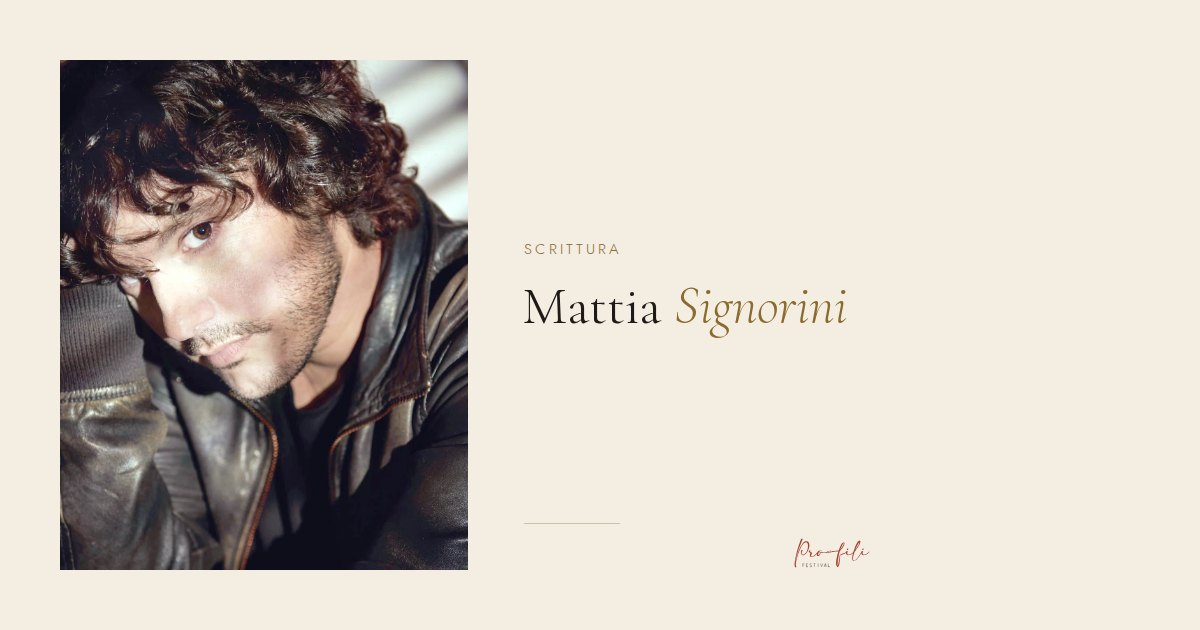
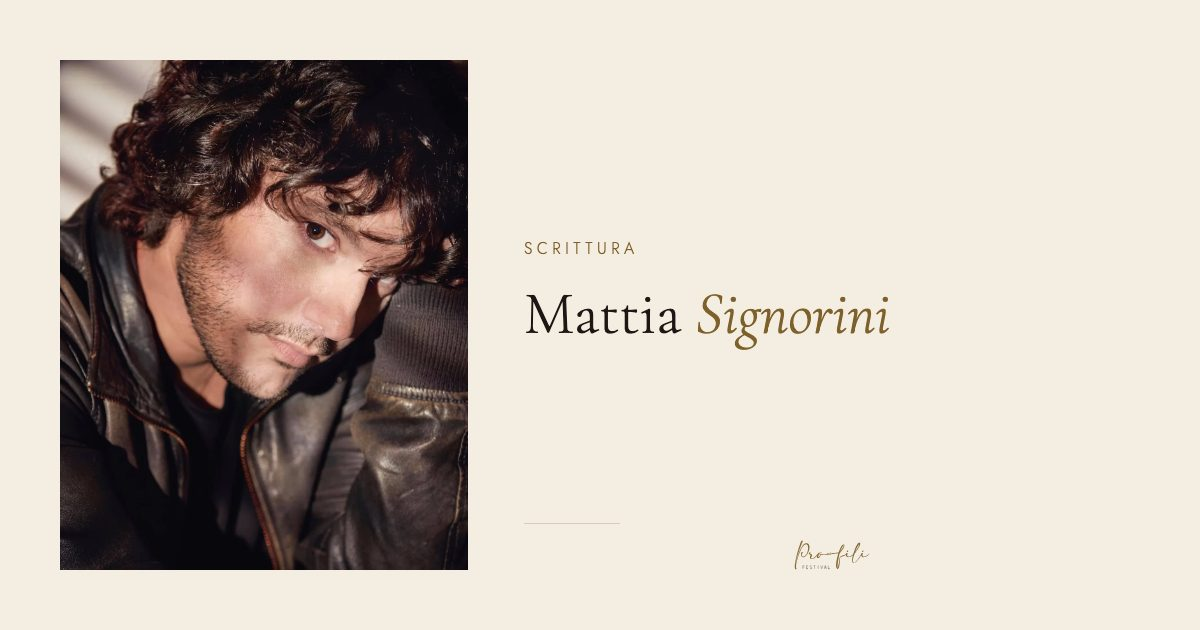
Foto: si uniformano solo i ritratti di profilo; frontali e tre quarti tornano come prima in attesa delle foto giuste (#39)
Claude-Session: https://claude.ai/code/session_01K8S9kDcMmADtdHMs7poTsz

diff --git a/index.html b/index.html
@@ -140,7 +140,7 @@
         <p>Romanziere, tradotto in mezzo mondo.</p>
       </figure></a>
       <a class="person rv" data-tinta="viola" href="artisti/giorgia-roversi.html"><figure>
-        <div class="ph" data-knot="low"><img src="assets/img/giorgia-roversi.webp" srcset="assets/img/giorgia-roversi_sm.webp 800w, assets/img/giorgia-roversi.webp 1280w" sizes="(max-width:640px) 46vw, (max-width:1000px) 30vw, 220px" alt="Ritratto di Giorgia Roversi" width="1280" height="1600" loading="lazy"></div>
+        <div class="ph" data-knot="low"><img src="assets/img/giorgia-roversi.webp" srcset="assets/img/giorgia-roversi_sm.webp 800w, assets/img/giorgia-roversi.webp 906w" sizes="(max-width:640px) 46vw, (max-width:1000px) 30vw, 220px" alt="Ritratto di Giorgia Roversi" width="906" height="1133" loading="lazy"></div>
         <h3>Giorgia Roversi</h3><p class="role">Pittura</p>
         <p>Pittura dell'anatomia invisibile delle emozioni.</p>
       </figure></a>
@@ -232,12 +232,12 @@
     <div class="thread" data-giri><svg aria-hidden="true"><path class="ghost" d=""/><path class="line" d=""/><path class="flow" d=""/><circle class="bead" r="4"/></svg>
     <div class="people people-compact">
       <a class="person rv" data-tinta="rosso" href="artisti/nicola-elias-rigato.html"><figure>
-        <div class="ph" data-knot="low"><img src="assets/img/nicola-profili.webp" srcset="assets/img/nicola-profili_sm.webp 800w, assets/img/nicola-profili.webp 1280w" sizes="(max-width:640px) 46vw, (max-width:1000px) 30vw, 220px" alt="Ritratto di Nicola Elias Rigato" width="1280" height="1600" loading="lazy"></div>
+        <div class="ph" data-knot="low"><img src="assets/img/nicola.webp" srcset="assets/img/nicola_sm.webp 800w, assets/img/nicola.webp 1600w" sizes="(max-width:640px) 46vw, (max-width:1000px) 30vw, 220px" alt="Nicola Elias Rigato al pianoforte" width="1600" height="1066" loading="lazy"></div>
         <h3>Nicola Elias Rigato</h3><p class="role">Pianoforte, composizione, scrittura, ricerca</p>
         <p>Pianista e compositore, con una ricerca che non si ferma al palco.</p>
       </figure></a>
       <a class="person rv" data-tinta="arancio" href="artisti/chiara-tosti.html"><figure>
-        <div class="ph" data-knot="low"><img src="assets/img/chiara-profili.webp" srcset="assets/img/chiara-profili_sm.webp 800w, assets/img/chiara-profili.webp 1280w" sizes="(max-width:640px) 46vw, (max-width:1000px) 30vw, 220px" alt="Ritratto di Chiara Tosti" width="1280" height="1600" loading="lazy"></div>
+        <div class="ph" data-knot="low"><img src="assets/img/chiara.webp" srcset="assets/img/chiara_sm.webp 600w, assets/img/chiara.webp 1050w" sizes="(max-width:640px) 46vw, (max-width:1000px) 30vw, 220px" alt="Ritratto di Chiara Tosti" width="1050" height="1400" loading="lazy"></div>
         <h3>Chiara Tosti</h3><p class="role">Danza</p>
         <p>Il corpo come racconto, tra tecnica e improvvisazione.</p>
       </figure></a>

diff --git a/artisti/chiara-tosti.html b/artisti/chiara-tosti.html
@@ -69,7 +69,7 @@
 <section class="block paper" data-world="paper">
   <div class="wrap article">
     <aside class="rv">
-      <div class="ph artist-ph"><img src="../assets/img/chiara-profili.webp" srcset="../assets/img/chiara-profili_sm.webp 800w, ../assets/img/chiara-profili.webp 1280w" sizes="(max-width:960px) 90vw, 300px" alt="Ritratto di Chiara Tosti" width="1280" height="1600"></div>
+      <div class="ph artist-ph"><img src="../assets/img/chiara.webp" srcset="../assets/img/chiara_sm.webp 600w, ../assets/img/chiara.webp 1050w" sizes="(max-width:960px) 90vw, 300px" alt="Ritratto di Chiara Tosti" width="1050" height="1400"></div>
       <p class="muted" style="margin:-16px 0 24px;font-size:12px">Foto di James Mountford, Firenze, 2026</p>
       <dl>
         <dt>Disciplina</dt><dd>Coreutica (l'arte della danza) e teatro</dd>
@@ -136,7 +136,7 @@
         <p>Romanziere, tradotto in mezzo mondo.</p>
       </figure></a>
       <a class="person rv" href="giorgia-roversi.html"><figure>
-        <div class="ph"><img src="../assets/img/giorgia-roversi.webp" srcset="../assets/img/giorgia-roversi_sm.webp 800w, ../assets/img/giorgia-roversi.webp 1280w" sizes="(max-width:999px) 46vw, 280px" alt="Ritratto di Giorgia Roversi" width="1280" height="1600" loading="lazy"></div>
+        <div class="ph"><img src="../assets/img/giorgia-roversi.webp" srcset="../assets/img/giorgia-roversi_sm.webp 800w, ../assets/img/giorgia-roversi.webp 906w" sizes="(max-width:999px) 46vw, 280px" alt="Ritratto di Giorgia Roversi" width="906" height="1133" loading="lazy"></div>
         <h3>Giorgia Roversi</h3><p class="role">Pittura</p>
         <p>Pittura dell'anatomia invisibile delle emozioni.</p>
       </figure></a>

diff --git a/assets/js/site.js b/assets/js/site.js
@@ -855,7 +855,7 @@
      sicurezza: senza JavaScript si vedono quelli. */
   var ALTRI = [
     {s:"mattia-signorini",n:"Mattia Signorini",r:"Scrittura",t:"Romanziere, tradotto in mezzo mondo.",i:"mattia-signorini.webp",ss:"mattia-signorini_sm.webp 800w, mattia-signorini.webp 1280w",a:"Ritratto di Mattia Signorini",w:1280,h:1600},
-    {s:"giorgia-roversi",n:"Giorgia Roversi",r:"Pittura",t:"Pittura dell'anatomia invisibile delle emozioni.",i:"giorgia-roversi.webp",ss:"giorgia-roversi_sm.webp 800w, giorgia-roversi.webp 1280w",a:"Ritratto di Giorgia Roversi",w:1280,h:1600},
+    {s:"giorgia-roversi",n:"Giorgia Roversi",r:"Pittura",t:"Pittura dell'anatomia invisibile delle emozioni.",i:"giorgia-roversi.webp",ss:"giorgia-roversi_sm.webp 800w, giorgia-roversi.webp 906w",a:"Ritratto di Giorgia Roversi",w:906,h:1133},
     {s:"zentequerente",n:"Zentequerente",r:"Arti visive",t:"Disegno e segni raccolti: l'invisibile dentro il visibile.",i:"zentequerente.webp",ss:"zentequerente_sm.webp 800w, zentequerente.webp 1280w",a:"Ritratto di Zentequerente, di profilo",w:1280,h:1600},
     {s:"marcello-ubertone",n:"Marcello Ubertone",r:"Cantautorato",t:"Canzoni che raccontano storie, tra immaginazione e vita vera.",i:"marcello-ubertone.webp",ss:"marcello-ubertone_sm.webp 800w, marcello-ubertone.webp 1280w",a:"Ritratto di Ubertone, di profilo",w:1280,h:1600},
     {s:"anna-spazio-marangon",n:"Anna Spazio Marangon",r:"Arti visive · installazione",t:"Installazioni di fili e nodi, tra spazio e materia.",i:"anna-spazio-marangon.webp",ss:"anna-spazio-marangon_sm.webp 800w, anna-spazio-marangon.webp 1280w",a:"Ritratto di Anna Spazio Marangon, di profilo",w:1280,h:1600},

diff --git a/artisti/marcello-ubertone.html b/artisti/marcello-ubertone.html
@@ -111,7 +111,7 @@
     <div class="head rv"><div><p class="eyebrow">PRO-FILI Festival</p><h2>Gli altri <em>artisti</em></h2></div></div>
     <div class="people" data-altri-artisti>
       <a class="person rv" href="giorgia-roversi.html"><figure>
-        <div class="ph"><img src="../assets/img/giorgia-roversi.webp" srcset="../assets/img/giorgia-roversi_sm.webp 800w, ../assets/img/giorgia-roversi.webp 1280w" sizes="(max-width:999px) 46vw, 280px" alt="Ritratto di Giorgia Roversi" width="1280" height="1600" loading="lazy"></div>
+        <div class="ph"><img src="../assets/img/giorgia-roversi.webp" srcset="../assets/img/giorgia-roversi_sm.webp 800w, ../assets/img/giorgia-roversi.webp 906w" sizes="(max-width:999px) 46vw, 280px" alt="Ritratto di Giorgia Roversi" width="906" height="1133" loading="lazy"></div>
         <h3>Giorgia Roversi</h3><p class="role">Pittura</p>
         <p>Pittura dell'anatomia invisibile delle emozioni.</p>
       </figure></a>

diff --git a/artisti/nicola-elias-rigato.html b/artisti/nicola-elias-rigato.html
@@ -69,7 +69,7 @@
 <section class="block paper" data-world="paper">
   <div class="wrap article">
     <aside class="rv">
-      <div class="ph artist-ph"><img src="../assets/img/nicola-profili.webp" srcset="../assets/img/nicola-profili_sm.webp 800w, ../assets/img/nicola-profili.webp 1280w" sizes="(max-width:960px) 90vw, 300px" alt="Ritratto di Nicola Elias Rigato" width="1280" height="1600" style="object-position:70% 50%"></div>
+      <div class="ph artist-ph"><img src="../assets/img/nicola.webp" srcset="../assets/img/nicola_sm.webp 800w, ../assets/img/nicola.webp 1600w" sizes="(max-width:960px) 90vw, 300px" alt="Nicola Elias Rigato al pianoforte" width="1600" height="1066" style="object-position:70% 50%"></div>
       <p class="muted" style="margin:-16px 0 24px;font-size:12px">Foto di Angelo De Poli</p>
       <dl>
         <dt>Disciplina</dt><dd>Pianoforte, composizione, scrittura, ricerca</dd>

diff --git a/artisti/anna-randolo.html b/artisti/anna-randolo.html
@@ -116,7 +116,7 @@
         <p>Romanziere, tradotto in mezzo mondo.</p>
       </figure></a>
       <a class="person rv" href="giorgia-roversi.html"><figure>
-        <div class="ph"><img src="../assets/img/giorgia-roversi.webp" srcset="../assets/img/giorgia-roversi_sm.webp 800w, ../assets/img/giorgia-roversi.webp 1280w" sizes="(max-width:999px) 46vw, 280px" alt="Ritratto di Giorgia Roversi" width="1280" height="1600" loading="lazy"></div>
+        <div class="ph"><img src="../assets/img/giorgia-roversi.webp" srcset="../assets/img/giorgia-roversi_sm.webp 800w, ../assets/img/giorgia-roversi.webp 906w" sizes="(max-width:999px) 46vw, 280px" alt="Ritratto di Giorgia Roversi" width="906" height="1133" loading="lazy"></div>
         <h3>Giorgia Roversi</h3><p class="role">Pittura</p>
         <p>Pittura dell'anatomia invisibile delle emozioni.</p>
       </figure></a>

diff --git a/artisti/elia-pellegrini.html b/artisti/elia-pellegrini.html
@@ -120,7 +120,7 @@
         <p>Romanziere, tradotto in mezzo mondo.</p>
       </figure></a>
       <a class="person rv" href="giorgia-roversi.html"><figure>
-        <div class="ph"><img src="../assets/img/giorgia-roversi.webp" srcset="../assets/img/giorgia-roversi_sm.webp 800w, ../assets/img/giorgia-roversi.webp 1280w" sizes="(max-width:999px) 46vw, 280px" alt="Ritratto di Giorgia Roversi" width="1280" height="1600" loading="lazy"></div>
+        <div class="ph"><img src="../assets/img/giorgia-roversi.webp" srcset="../assets/img/giorgia-roversi_sm.webp 800w, ../assets/img/giorgia-roversi.webp 906w" sizes="(max-width:999px) 46vw, 280px" alt="Ritratto di Giorgia Roversi" width="906" height="1133" loading="lazy"></div>
         <h3>Giorgia Roversi</h3><p class="role">Pittura</p>
         <p>Pittura dell'anatomia invisibile delle emozioni.</p>
       </figure></a>

diff --git a/artisti/filo.html b/artisti/filo.html
@@ -119,7 +119,7 @@
         <p>Romanziere, tradotto in mezzo mondo.</p>
       </figure></a>
       <a class="person rv" href="giorgia-roversi.html"><figure>
-        <div class="ph"><img src="../assets/img/giorgia-roversi.webp" srcset="../assets/img/giorgia-roversi_sm.webp 800w, ../assets/img/giorgia-roversi.webp 1280w" sizes="(max-width:999px) 46vw, 280px" alt="Ritratto di Giorgia Roversi" width="1280" height="1600" loading="lazy"></div>
+        <div class="ph"><img src="../assets/img/giorgia-roversi.webp" srcset="../assets/img/giorgia-roversi_sm.webp 800w, ../assets/img/giorgia-roversi.webp 906w" sizes="(max-width:999px) 46vw, 280px" alt="Ritratto di Giorgia Roversi" width="906" height="1133" loading="lazy"></div>
         <h3>Giorgia Roversi</h3><p class="role">Pittura</p>
         <p>Pittura dell'anatomia invisibile delle emozioni.</p>
       </figure></a>

diff --git a/artisti/francesca-de-simone.html b/artisti/francesca-de-simone.html
@@ -120,7 +120,7 @@
         <p>Romanziere, tradotto in mezzo mondo.</p>
       </figure></a>
       <a class="person rv" href="giorgia-roversi.html"><figure>
-        <div class="ph"><img src="../assets/img/giorgia-roversi.webp" srcset="../assets/img/giorgia-roversi_sm.webp 800w, ../assets/img/giorgia-roversi.webp 1280w" sizes="(max-width:999px) 46vw, 280px" alt="Ritratto di Giorgia Roversi" width="1280" height="1600" loading="lazy"></div>
+        <div class="ph"><img src="../assets/img/giorgia-roversi.webp" srcset="../assets/img/giorgia-roversi_sm.webp 800w, ../assets/img/giorgia-roversi.webp 906w" sizes="(max-width:999px) 46vw, 280px" alt="Ritratto di Giorgia Roversi" width="906" height="1133" loading="lazy"></div>
         <h3>Giorgia Roversi</h3><p class="role">Pittura</p>
         <p>Pittura dell'anatomia invisibile delle emozioni.</p>
       </figure></a>

diff --git a/artisti/massimo-marchioro.html b/artisti/massimo-marchioro.html
@@ -114,7 +114,7 @@
         <p>Romanziere, tradotto in mezzo mondo.</p>
       </figure></a>
       <a class="person rv" href="giorgia-roversi.html"><figure>
-        <div class="ph"><img src="../assets/img/giorgia-roversi.webp" srcset="../assets/img/giorgia-roversi_sm.webp 800w, ../assets/img/giorgia-roversi.webp 1280w" sizes="(max-width:999px) 46vw, 280px" alt="Ritratto di Giorgia Roversi" width="1280" height="1600" loading="lazy"></div>
+        <div class="ph"><img src="../assets/img/giorgia-roversi.webp" srcset="../assets/img/giorgia-roversi_sm.webp 800w, ../assets/img/giorgia-roversi.webp 906w" sizes="(max-width:999px) 46vw, 280px" alt="Ritratto di Giorgia Roversi" width="906" height="1133" loading="lazy"></div>
         <h3>Giorgia Roversi</h3><p class="role">Pittura</p>
         <p>Pittura dell'anatomia invisibile delle emozioni.</p>
       </figure></a>

diff --git a/artisti/salsa-wasabbee.html b/artisti/salsa-wasabbee.html
@@ -119,7 +119,7 @@
         <p>Romanziere, tradotto in mezzo mondo.</p>
       </figure></a>
       <a class="person rv" href="giorgia-roversi.html"><figure>
-        <div class="ph"><img src="../assets/img/giorgia-roversi.webp" srcset="../assets/img/giorgia-roversi_sm.webp 800w, ../assets/img/giorgia-roversi.webp 1280w" sizes="(max-width:999px) 46vw, 280px" alt="Ritratto di Giorgia Roversi" width="1280" height="1600" loading="lazy"></div>
+        <div class="ph"><img src="../assets/img/giorgia-roversi.webp" srcset="../assets/img/giorgia-roversi_sm.webp 800w, ../assets/img/giorgia-roversi.webp 906w" sizes="(max-width:999px) 46vw, 280px" alt="Ritratto di Giorgia Roversi" width="906" height="1133" loading="lazy"></div>
         <h3>Giorgia Roversi</h3><p class="role">Pittura</p>
         <p>Pittura dell'anatomia invisibile delle emozioni.</p>
       </figure></a>

diff --git a/artisti/salvatore-passalacqua.html b/artisti/salvatore-passalacqua.html
@@ -121,7 +121,7 @@
         <p>Romanziere, tradotto in mezzo mondo.</p>
       </figure></a>
       <a class="person rv" href="giorgia-roversi.html"><figure>
-        <div class="ph"><img src="../assets/img/giorgia-roversi.webp" srcset="../assets/img/giorgia-roversi_sm.webp 800w, ../assets/img/giorgia-roversi.webp 1280w" sizes="(max-width:999px) 46vw, 280px" alt="Ritratto di Giorgia Roversi" width="1280" height="1600" loading="lazy"></div>
+        <div class="ph"><img src="../assets/img/giorgia-roversi.webp" srcset="../assets/img/giorgia-roversi_sm.webp 800w, ../assets/img/giorgia-roversi.webp 906w" sizes="(max-width:999px) 46vw, 280px" alt="Ritratto di Giorgia Roversi" width="906" height="1133" loading="lazy"></div>
         <h3>Giorgia Roversi</h3><p class="role">Pittura</p>
         <p>Pittura dell'anatomia invisibile delle emozioni.</p>
       </figure></a>
